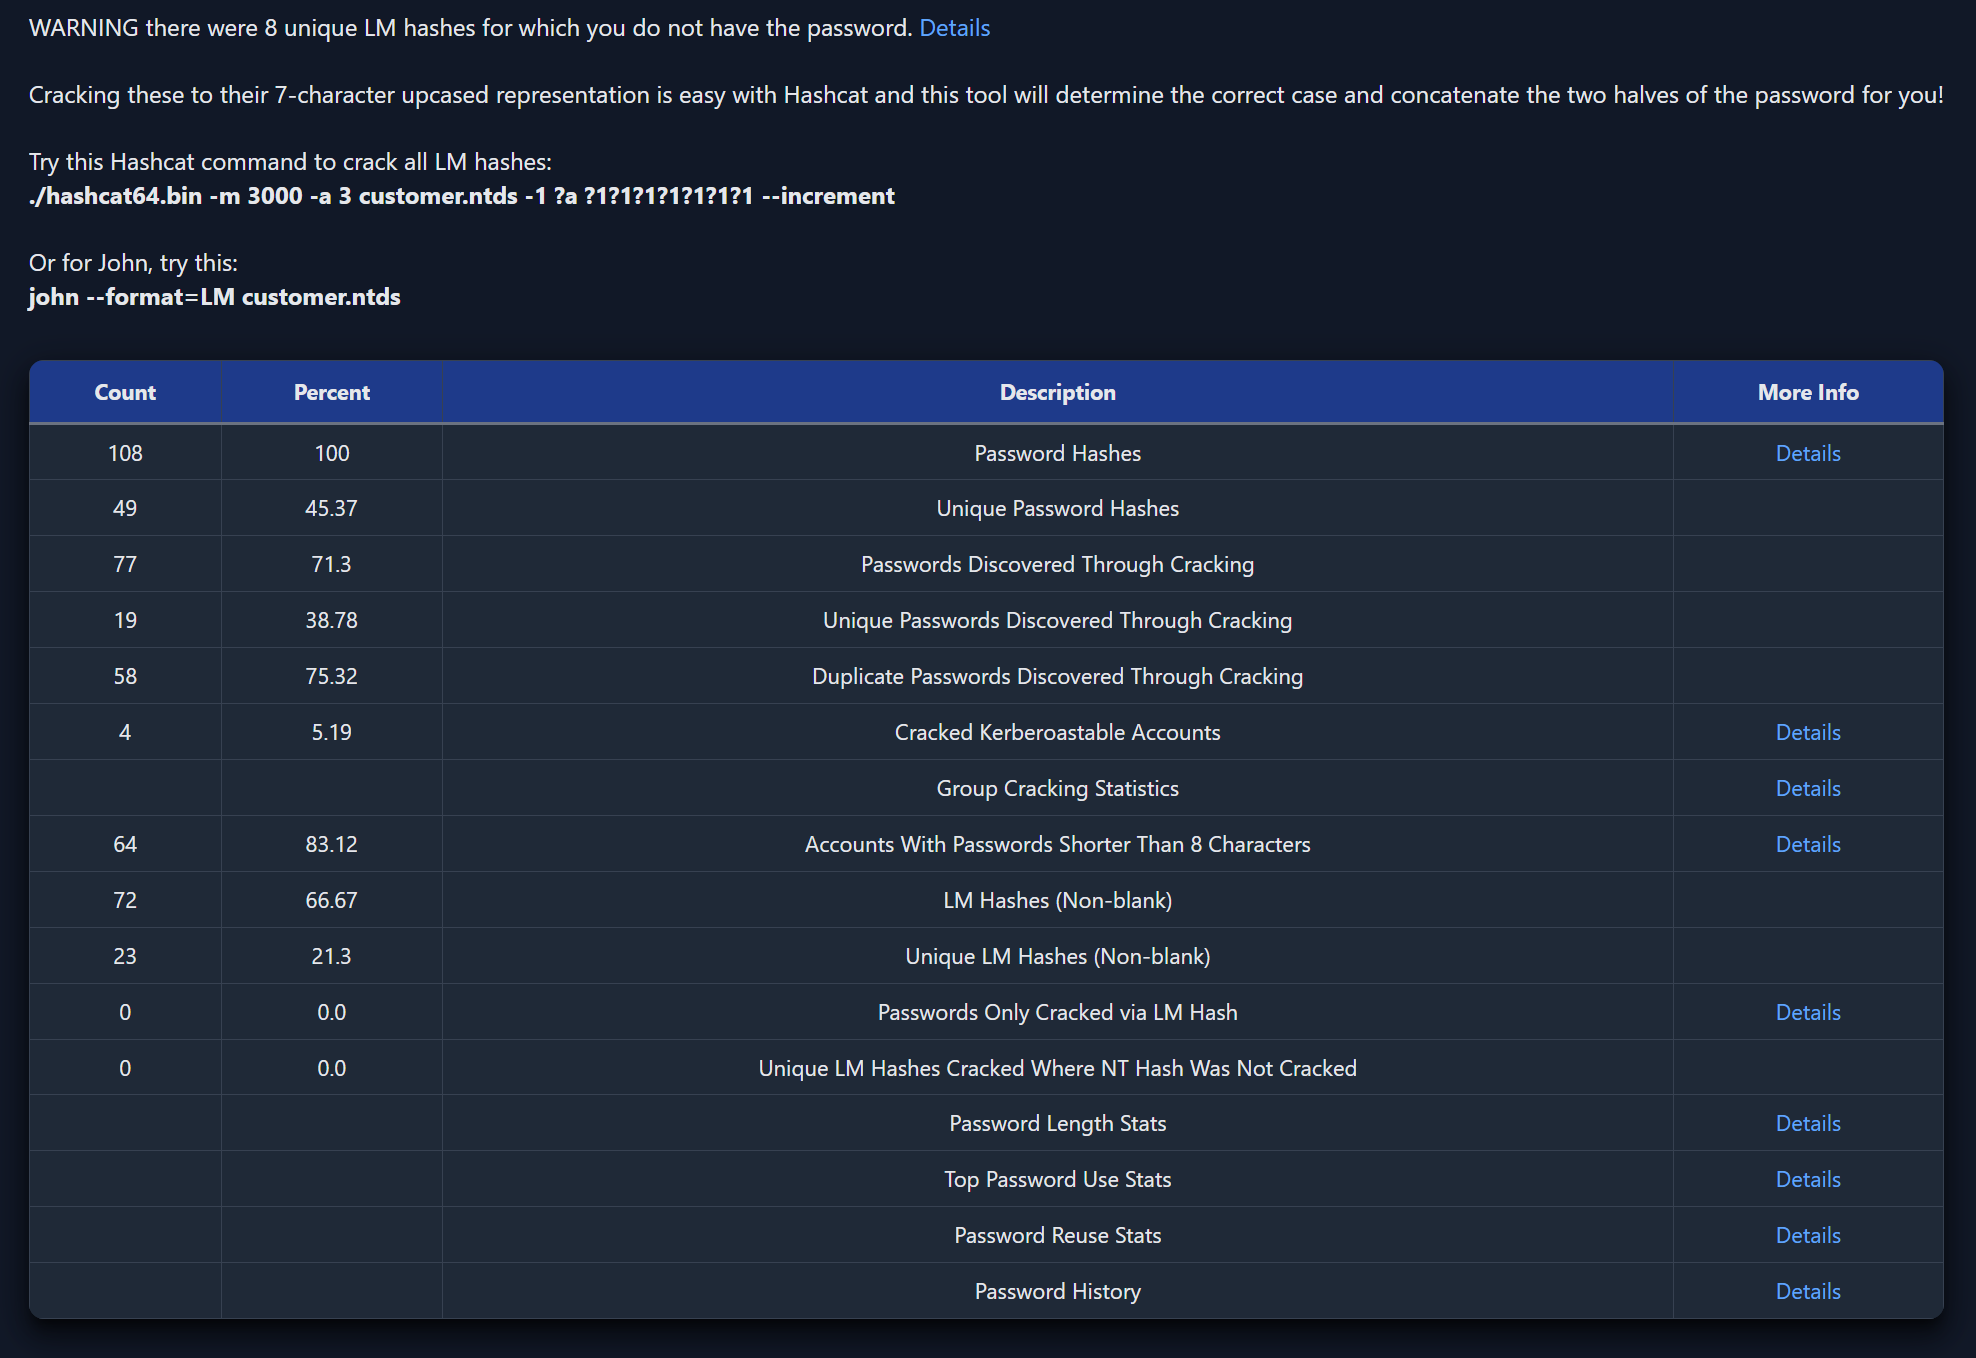
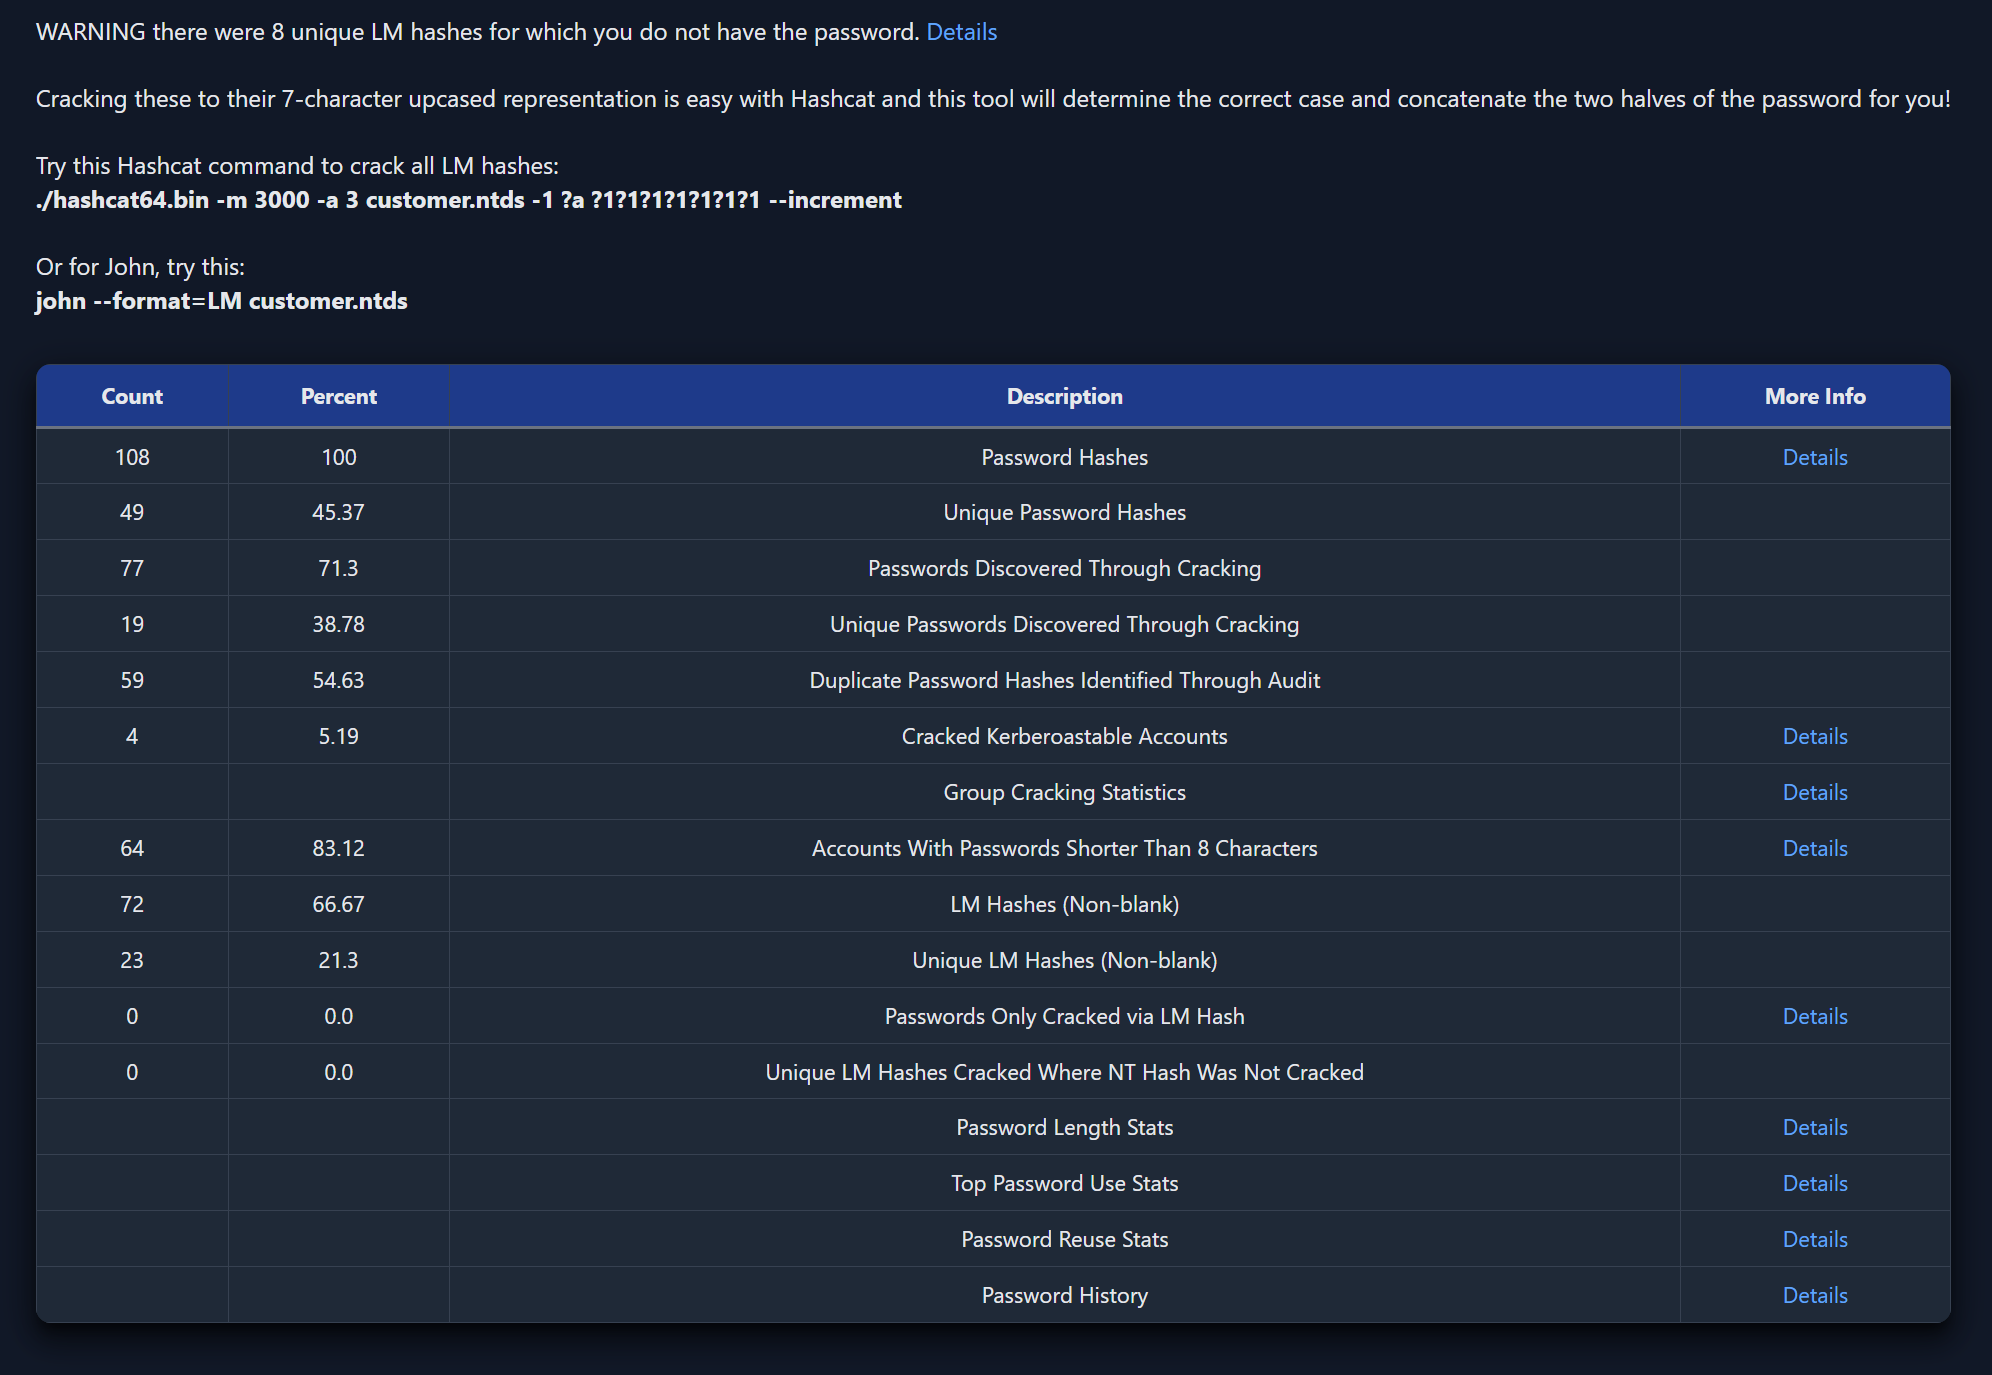
duplicate hash logic fix

diff --git a/dpat.py b/dpat.py
@@ -408,11 +408,16 @@ percent_cracked_unique = pct(num_unique_passwords_cracked, num_unique_nt_hashes)
 summary_table.append((num_unique_passwords_cracked, percent_cracked_unique,
                       "Unique Passwords Discovered Through Cracking", None))
 
-# Number of reused (duplicate) passwords
-num_duplicate_passwords = num_passwords_cracked - num_unique_passwords_cracked
-percent_duplicate_passwords = pct(num_duplicate_passwords, num_passwords_cracked)
-summary_table.append((num_duplicate_passwords, percent_duplicate_passwords,
-                      "Duplicate Passwords Discovered Through Cracking", None))
+# Calculate total number of duplicate password hashes
+num_duplicate_hashes = num_hashes - num_unique_nt_hashes
+percent_duplicate_hashes = pct(num_duplicate_hashes, num_hashes)
+
+summary_table.append((
+    num_duplicate_hashes,
+    percent_duplicate_hashes,
+    "Duplicate Password Hashes Identified Through Audit",
+    None
+))
 
 # Kerberoastable Accounts
 if args.kerbfile:
